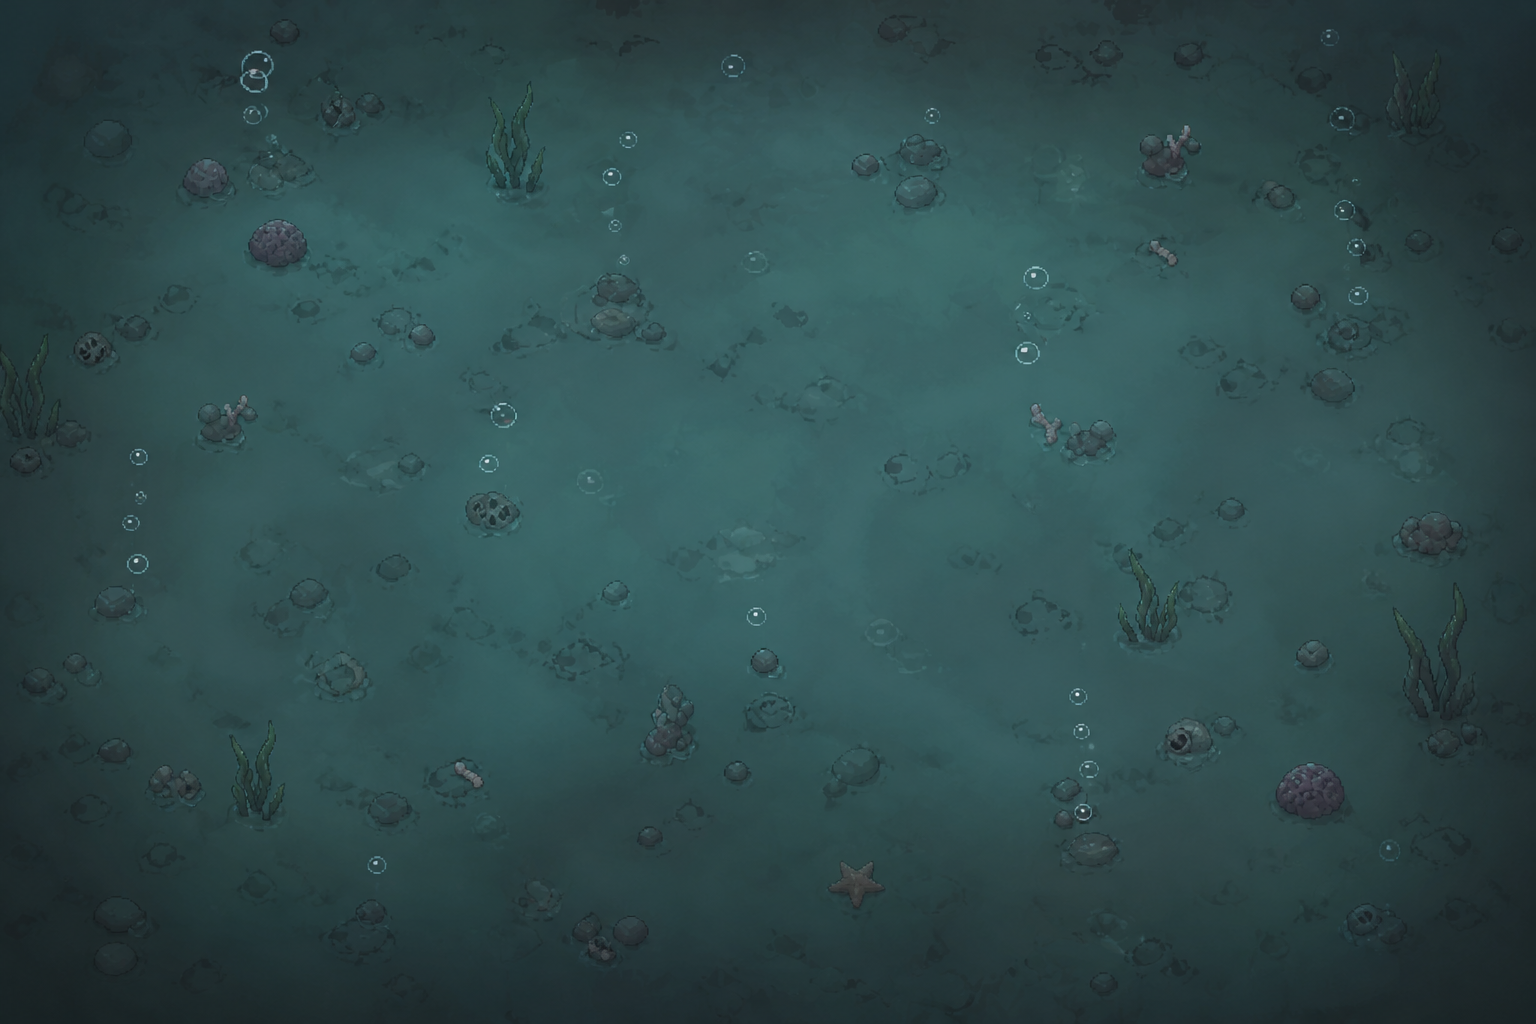
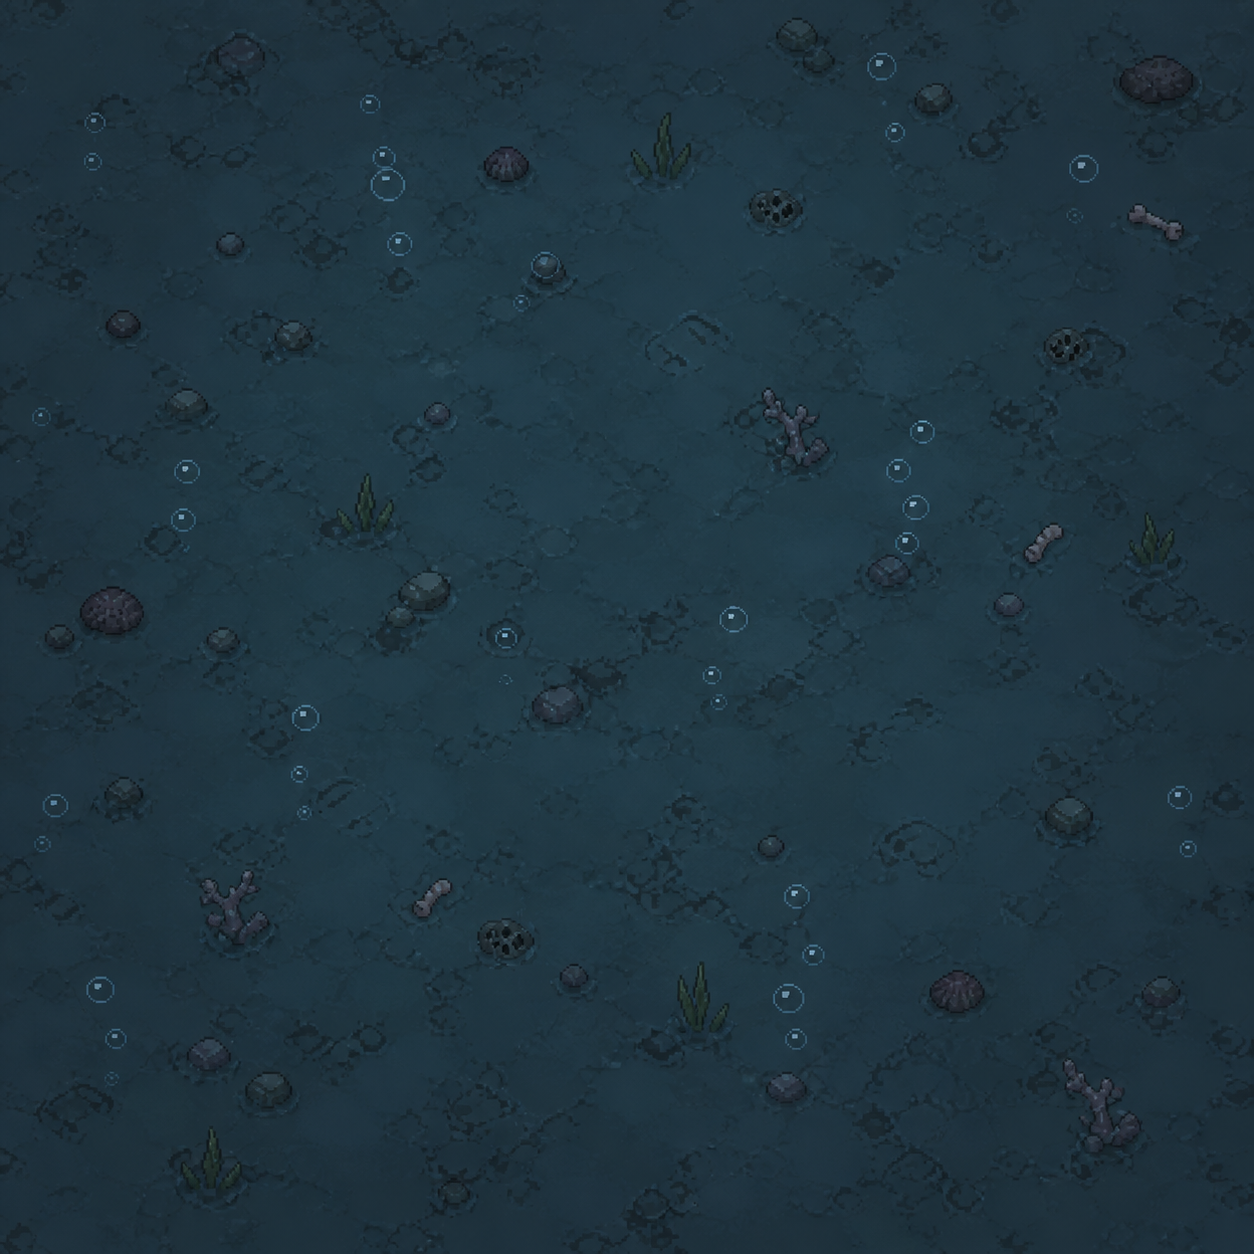
sol corrige et code pour ajouter different ennemis il suffit de mettre les imaes bien nommees dans assets

diff --git a/Codes/entitees.py b/Codes/entitees.py
@@ -183,12 +183,16 @@ class Enemy:
 
         bob = 1 if pygame.time.get_ticks() // 180 % 2 == 0 else -1
         draw_rect = self.rect.move(0, bob)
+        level = getattr(self, "level", 1)
+        suffix = f"_{level}" if level in (2, 3) else ""
         sprite_key = {
-            "stalker": "enemy_stalker",
-            "shooter": "enemy_shooter",
-            "charger": "enemy_charger",
-            "bomber": "enemy_bomber",
+            "stalker": f"enemy_stalker{suffix}",
+            "shooter": f"enemy_shooter{suffix}",
+            "charger": f"enemy_charger{suffix}",
+            "bomber":  f"enemy_bomber{suffix}",
         }.get(self.kind, "enemy")
+        if sprite_key not in assets:
+            sprite_key = sprite_key.replace(suffix, "")
         screen.blit(assets.get(sprite_key, assets["enemy"]), draw_rect)
 
         # Petite barre de vie au-dessus

diff --git a/Codes/assets.py b/Codes/assets.py
@@ -69,6 +69,13 @@ def load_assets():
             if os.path.exists(path):
                 key = f"enemy_{kind}_lv{level}"
                 assets[key] = pygame.image.load(path).convert_alpha()
-                assets[key] = pygame.transform.smoothscale(assets[key], (47, 47))'''   
+                assets[key] = pygame.transform.smoothscale(assets[key], (47, 47))'''  
+
+    # Avant le return dans load_assets()
+    for level, filename in [(2, "bg2.png"), (3, "bg3.png")]:
+        path = os.path.join(base, "assets", filename)
+        if os.path.exists(path):
+            assets[f"floor_lv{level}"] = pygame.image.load(path).convert()
+            assets[f"floor_lv{level}"] = pygame.transform.smoothscale(assets[f"floor_lv{level}"], (TILE_SIZE, TILE_SIZE))
     
     return assets

diff --git a/Codes/map.py b/Codes/map.py
@@ -181,6 +181,7 @@ class Room:
                 if free_tiles:
                     ex, ey = random.choice(free_tiles)
                     enemy = Enemy(ex, ey)
+                    enemy.level = self.level
                     enemy.hp     = 2 + level
                     enemy.max_hp = enemy.hp
                     enemy.speed  = min(1.8 + level * 0.28, 4.0)
